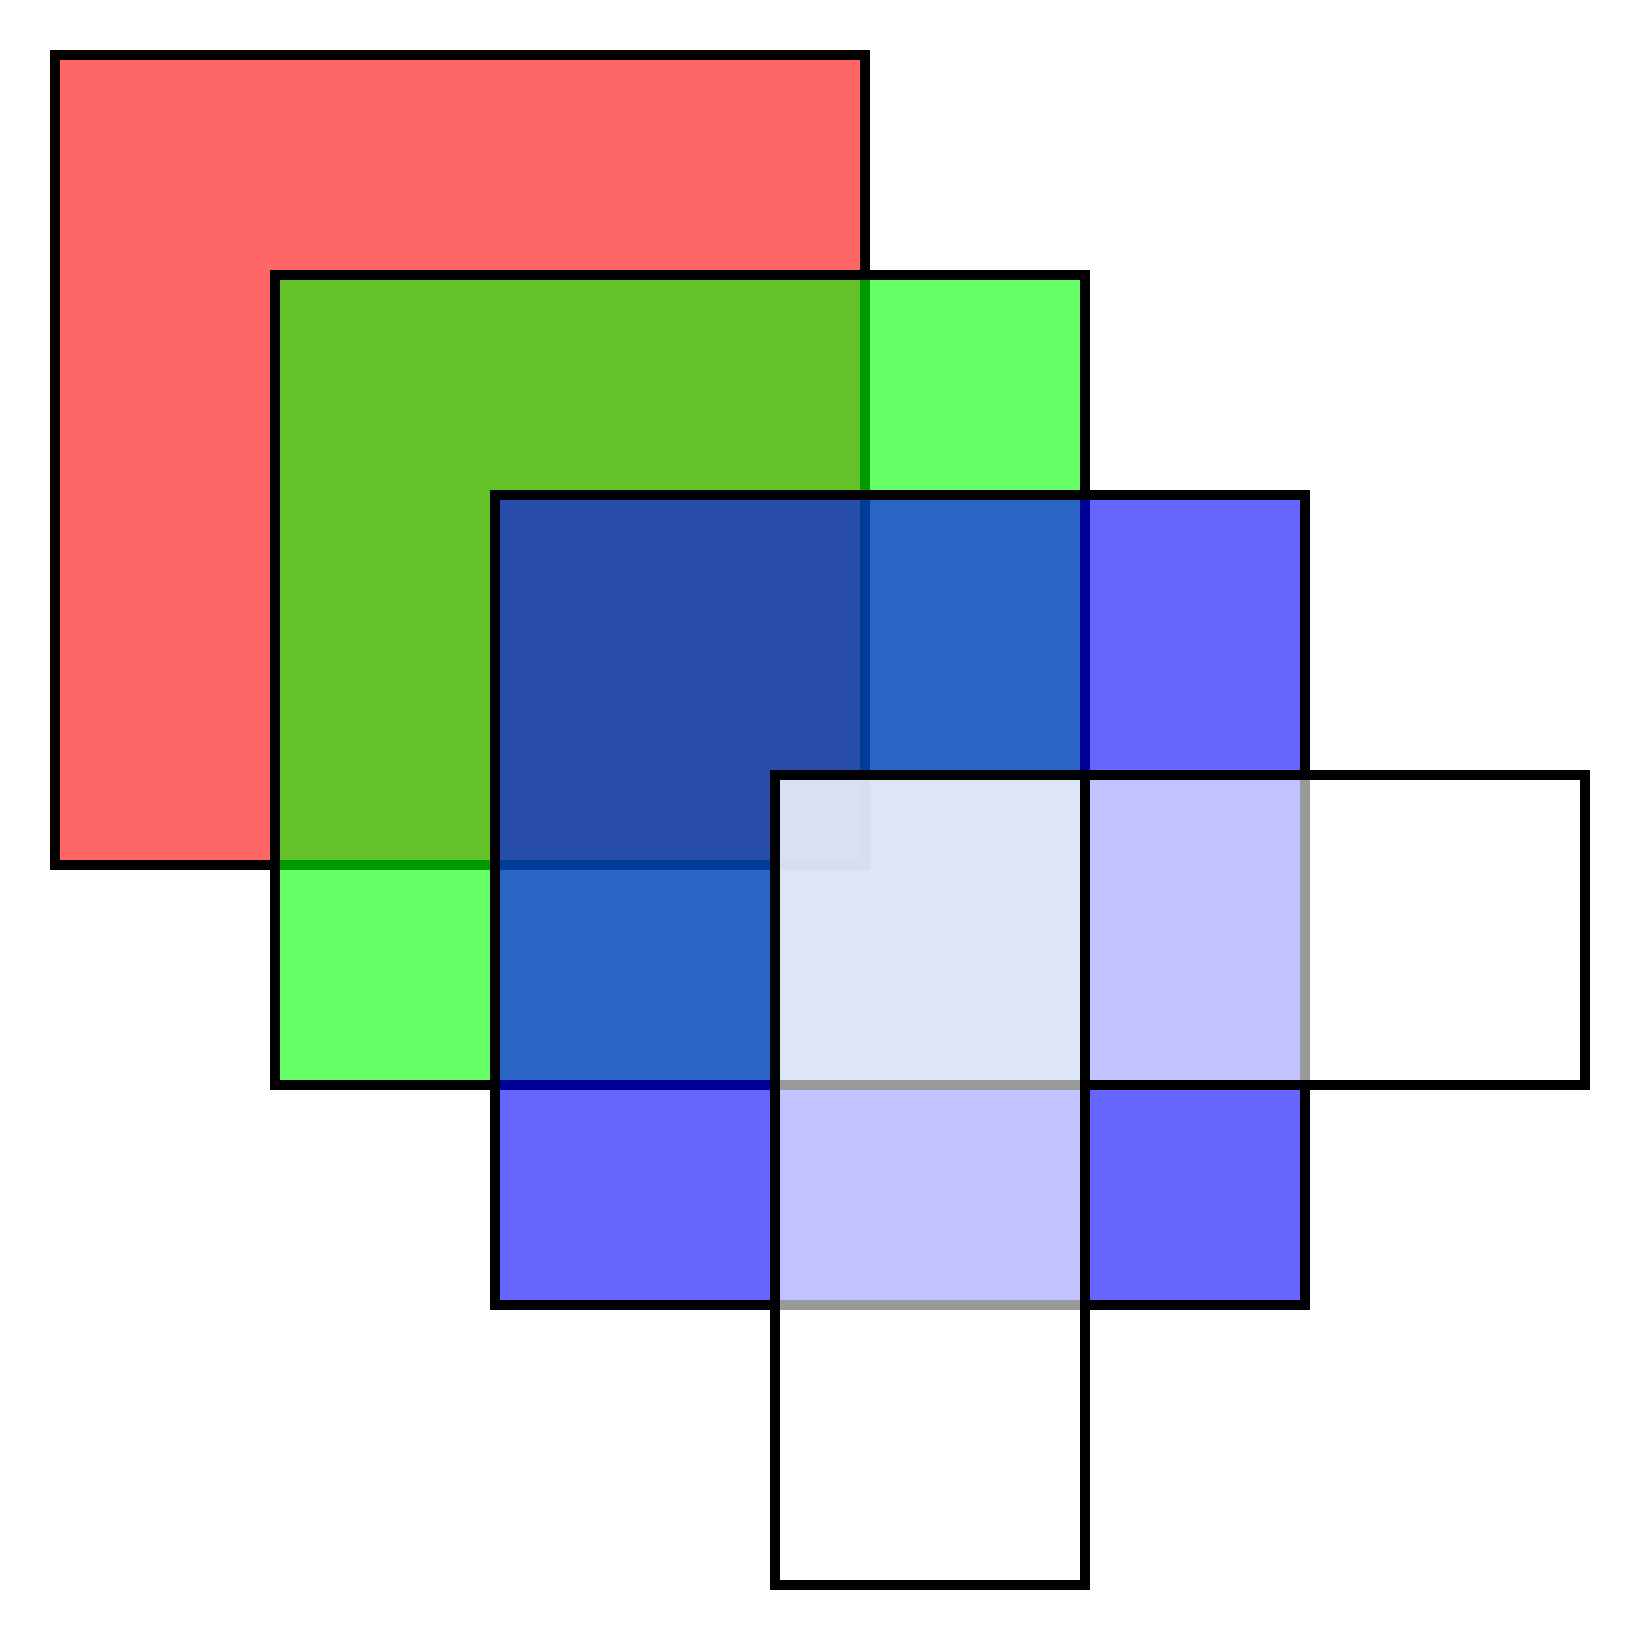
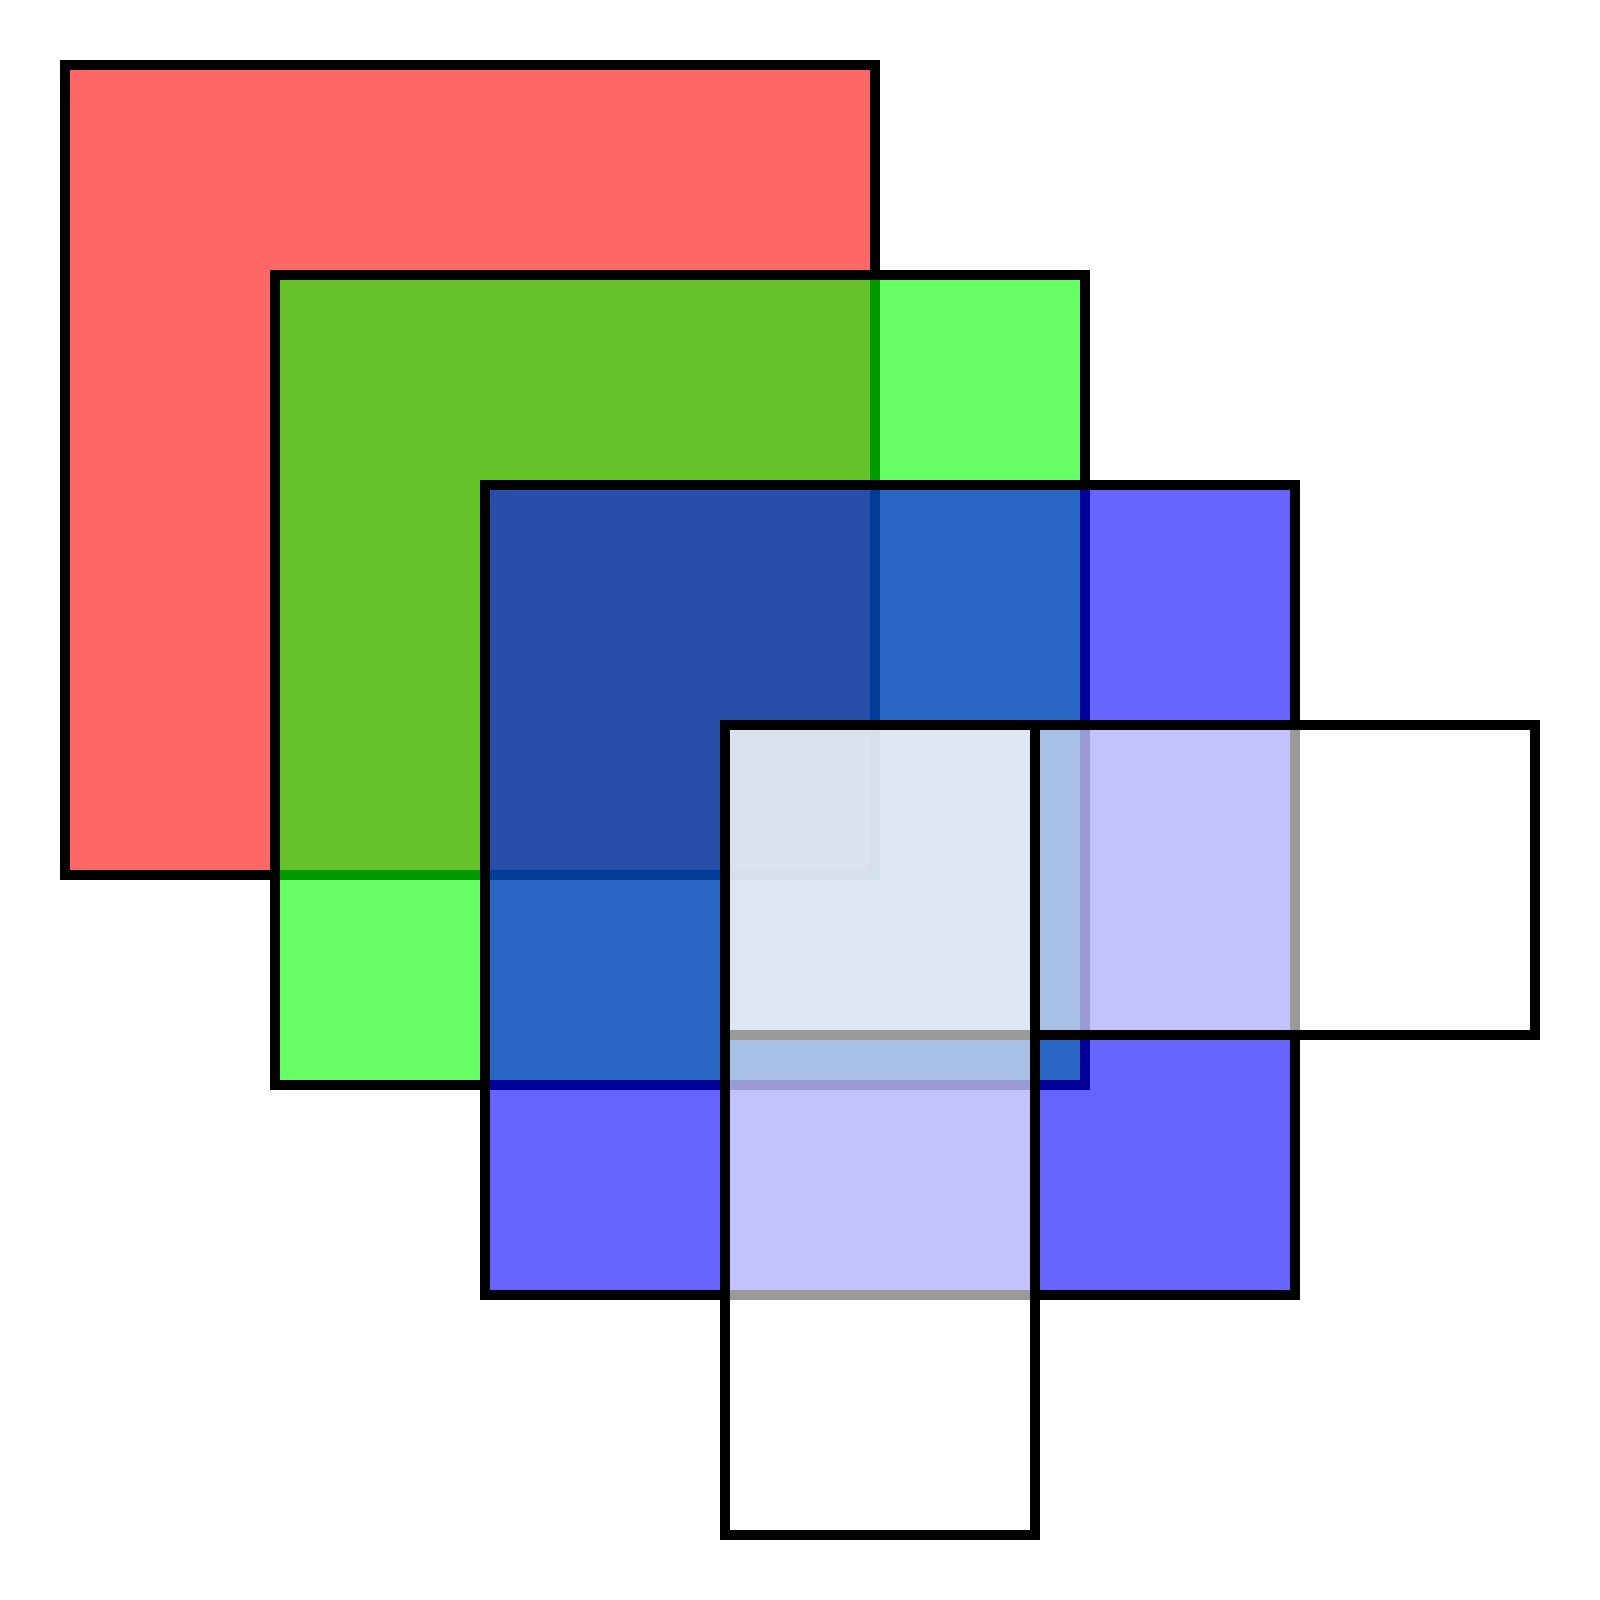
test: create 1600x1600 sherpa_41 test image

Changed region(s): [[0.0312, 0.0312, 0.9688, 0.9688]]

diff --git a/examples/test.css b/examples/test.css
@@ -15,30 +15,30 @@ div {
 
 .one {
     background-color: rgba(255, 0, 0, 0.6);
-    margin-left: 50px;
-    margin-top: 50px;
+    margin-left: 60px;
+    margin-top: 60px;
 }
 
 .two {
     background-color: rgba(0, 255, 0, 0.6);
     margin-left: 270px;
-    margin-top: -600px;
+    margin-top: -610px;
 }
 
 .three {
     background: rgba(0, 0, 255, 0.6);
-    margin-left: 490px;
-    margin-top: -600px;
+    margin-left: 480px;
+    margin-top: -610px;
 }
 
 .blank {
     background: rgba(255, 255, 255, 0.6);
-    margin-left: 270px;
+    margin-left: 230px;
 }
 
 .blank.horizontal {
     height: 300px;
-    margin-top: 270px;
+    margin-top: 230px;
 }
 
 .blank.vertical {
